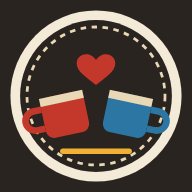
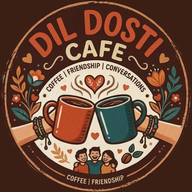
Add files via upload

diff --git a/index.html b/index.html
@@ -4,7 +4,7 @@
 <meta charset="UTF-8">
 <meta name="viewport" content="width=device-width,initial-scale=1,maximum-scale=1">
 <title>Dil Dosti Cafe – Billing</title>
-<meta name="theme-color" content="#2a2420">
+<meta name="theme-color" content="#3c1f14">
 <link rel="manifest" href="manifest.webmanifest">
 <link rel="icon" type="image/png" href="icon-192.png">
 <link rel="apple-touch-icon" href="icon-192.png">
@@ -14,14 +14,14 @@
 <script src="https://www.gstatic.com/firebasejs/10.12.2/firebase-database-compat.js"></script>
 <style>
 /* Dil Dosti Cafe theme – cream paper, charcoal frame, red & blue cups */
-:root{--bg:#f3ead7;--card:#fffaf0;--ink:#2a2420;--mut:#7d705f;--brand:#c4372b;--brand2:#2c76a3;--free:#4e9a3f;--busy:#e98a24;--bill:#c4372b;--line:#e3d5b8;--soft:#f6e9cf;--dark:#2a2420;--hand:"Kalam","Segoe Print","Comic Sans MS",cursive}
+:root{--bg:#f3ead7;--card:#fffaf0;--ink:#2a2420;--mut:#7d705f;--brand:#c1532d;--brand2:#295554;--free:#4e9a3f;--busy:#e98a24;--bill:#c4372b;--line:#e3d5b8;--soft:#f6e9cf;--dark:#3c1f14;--hand:"Kalam","Segoe Print","Comic Sans MS",cursive}
 *{box-sizing:border-box;-webkit-tap-highlight-color:transparent}
 body{margin:0;font-family:"Poppins",system-ui,"Segoe UI",Roboto,sans-serif;background:var(--bg) radial-gradient(circle at 20% 10%,#fbf4e4 0,transparent 55%);color:var(--ink);padding-bottom:72px;font-size:15px;background-attachment:fixed}
 header{background:var(--dark);color:#f8eedb;padding:8px 14px;display:flex;justify-content:space-between;align-items:center;position:sticky;top:0;z-index:20;border-bottom:4px solid var(--brand);box-shadow:0 2px 8px rgba(0,0,0,.25)}
 .brandwrap{display:flex;align-items:center;gap:10px}
-.logo{width:46px;height:46px;flex:none}
+.logo{width:54px;height:54px;flex:none;border-radius:50%;box-shadow:0 0 0 2px #e9d3ad}
 header h1{font-family:var(--hand);font-size:24px;margin:0;line-height:1;letter-spacing:.5px}
-header h1 b{color:#f2b134}
+header h1{color:#f08a5d}header h1 b{color:#f3e3c3}
 header .tag{font-family:var(--hand);font-size:13px;color:#e9d8b5;opacity:.9}
 header .clock{font-size:12px;opacity:.85;text-align:right}
 h2,h3,.tcard .tn,.hand{font-family:var(--hand)}
@@ -134,7 +134,7 @@ nav button.on{color:#fff;box-shadow:inset 0 3px 0 #f2b134}
 .footline{text-align:center;font-family:var(--hand);color:var(--mut);margin:18px 0 6px;font-size:16px}
 .footline span{color:var(--brand)}
 input:focus,select:focus{outline:2px solid var(--brand2);outline-offset:0}
-.syncpill{display:none;margin-top:3px;font-size:11px;font-weight:600;border-radius:10px;padding:2px 8px;background:#3b332d;color:#e9d8b5;cursor:pointer}
+.syncpill{display:none;margin-top:3px;font-size:11px;font-weight:600;border-radius:10px;padding:2px 8px;background:#56301f;color:#e9d8b5;cursor:pointer}
 .syncpill.on{display:inline-block}.syncpill.ok{color:#7fe07f}.syncpill.bad{color:#ff9b8f}
 .toast{bottom:auto;top:76px;font-size:15px;padding:12px 18px;max-width:90%;text-align:center;box-shadow:0 4px 14px rgba(0,0,0,.3)}
 textarea{font:12px monospace;padding:9px 10px;border:1px solid var(--line);border-radius:9px;width:100%;min-height:110px}
@@ -145,15 +145,7 @@ code{background:var(--soft);padding:1px 5px;border-radius:5px;font-size:12px}
 <body>
 <header>
   <div class="brandwrap">
-    <svg class="logo" viewBox="0 0 64 64" aria-hidden="true">
-      <circle cx="32" cy="32" r="31" fill="#f3ead7"/>
-      <circle cx="32" cy="32" r="27.5" fill="#2a2420"/>
-      <circle cx="32" cy="32" r="25" fill="none" stroke="#e9d8b5" stroke-width="1" stroke-dasharray="2 2"/>
-      <path d="M32 19c-2-3.5-7-2.5-7 1.2 0 3 4 5.3 7 7.8 3-2.5 7-4.8 7-7.8 0-3.7-5-4.7-7-1.2z" fill="#c4372b"/>
-      <g transform="rotate(-12 22 40)"><rect x="13" y="31" width="16" height="15" rx="3" fill="#c4372b"/><path d="M13 35h-3a3 3 0 0 0 0 7h3" fill="none" stroke="#c4372b" stroke-width="2.4"/><rect x="13" y="31" width="16" height="3" fill="#e9d8b5"/></g>
-      <g transform="rotate(12 42 40)"><rect x="35" y="31" width="16" height="15" rx="3" fill="#2c76a3"/><path d="M51 35h3a3 3 0 0 1 0 7h-3" fill="none" stroke="#2c76a3" stroke-width="2.4"/><rect x="35" y="31" width="16" height="3" fill="#e9d8b5"/></g>
-      <path d="M20 52h24" stroke="#f2b134" stroke-width="2" stroke-linecap="round"/>
-    </svg>
[1 lines of base64/hex data omitted]
     <div><h1 id="hName">Dil Dosti <b>Cafe</b></h1><div class="tag" id="hTag">Good Food · Good Mood</div></div>
   </div>
   <div style="text-align:right"><div class="clock" id="clock"></div><div class="syncpill" id="syncPill" onclick="go('settings')"></div></div>
@@ -347,7 +339,7 @@ function closeOrder(){
   save();cur=null;go('tables');
 }
 function renderChips(){
-  $('chips').innerHTML=['All',...cats()].map(c=>{const col=c==='All'?'#2a2420':catColor(c);return`<div class="chip ${c===curCat?'on':''}" style="border-color:${col};${c===curCat?'background:'+col:'color:'+col}" onclick="curCat='${esc(c).replace(/'/g,"\\'")}';renderChips();renderItems()">${esc(c)}</div>`}).join('');
+  $('chips').innerHTML=['All',...cats()].map(c=>{const col=c==='All'?'#3c1f14':catColor(c);return`<div class="chip ${c===curCat?'on':''}" style="border-color:${col};${c===curCat?'background:'+col:'color:'+col}" onclick="curCat='${esc(c).replace(/'/g,"\\'")}';renderChips();renderItems()">${esc(c)}</div>`}).join('');
 }
 function renderItems(){
   const q=$('search').value.trim().toLowerCase();

diff --git a/sw.js b/sw.js
@@ -1,5 +1,5 @@
 // Dil Dosti Cafe – offline shell. Live data always comes from Firebase.
-const CACHE = 'ddc-sync-v1';
+const CACHE = 'ddc-sync-v2';
 const SHELL = ['./', './index.html', './manifest.webmanifest', './icon-192.png', './icon-512.png'];
 
 self.addEventListener('install', e => {
